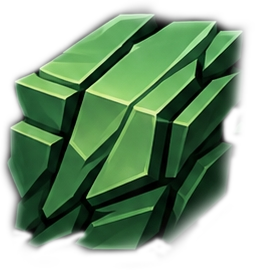
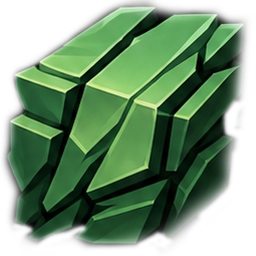
新增卡牌：猛蚀 (Corrosive Burst)
- 稀有能力卡，3耗能
- 效果：每当你给予敌人中毒，使其受到18点伤害（升级后23点）
- 使用 AfterPowerAmountChanged 钩子检测中毒施加
- 修正状态图标尺寸为256×256（结块、猛蚀）

diff --git a/Scripts/Cards/CorrosiveBurst.cs b/Scripts/Cards/CorrosiveBurst.cs
@@ -1,0 +1,55 @@
+using System.Collections.Generic;
+using System.Threading.Tasks;
+using BaseLib.Abstracts;
+using BaseLib.Utils;
+using MegaCrit.Sts2.Core.Commands;
+using MegaCrit.Sts2.Core.Entities.Cards;
+using MegaCrit.Sts2.Core.GameActions.Multiplayer;
+using MegaCrit.Sts2.Core.HoverTips;
+using MegaCrit.Sts2.Core.Localization;
+using MegaCrit.Sts2.Core.Localization.DynamicVars;
+using MegaCrit.Sts2.Core.Models.CardPools;
+using MegaCrit.Sts2.Core.Models.Powers;
+using USCE.Scripts.Powers;
+
+namespace USCE.Scripts.Cards;
+
+[Pool(typeof(SilentCardPool))]
+public class CorrosiveBurst : SilentCardModel, ILocalizationProvider
+{
+    private const int energyCost = 3;
+    private const CardType type = CardType.Power;
+    private const CardRarity rarity = CardRarity.Rare;
+    private const TargetType targetType = TargetType.Self;
+
+    protected override IEnumerable<DynamicVar> CanonicalVars =>
+    [
+        new PowerVar<CorrosiveBurstPower>(18m)
+    ];
+
+    protected override IEnumerable<IHoverTip> ExtraHoverTips =>
+    [
+        HoverTipFactory.FromPower<PoisonPower>()
+    ];
+
+    public override List<(string, string)>? Localization => LocManager.Instance.Language switch
+    {
+        "zhs" => new CardLoc("猛蚀", "每当你给予敌人[gold]中毒[/gold]，使其受到{CorrosiveBurstPower:diff()}点伤害。"),
+        _ => new CardLoc("Corrosive Burst", "Whenever you apply [gold]Poison[/gold] to an enemy, they take {CorrosiveBurstPower:diff()} damage.")
+    };
+
+    public CorrosiveBurst() : base(energyCost, type, rarity, targetType)
+    {
+    }
+
+    protected override async Task OnPlay(PlayerChoiceContext choiceContext, CardPlay cardPlay)
+    {
+        await CreatureCmd.TriggerAnim(Owner.Creature, "Cast", Owner.Character.CastAnimDelay);
+        await PowerCmd.Apply<CorrosiveBurstPower>(Owner.Creature, DynamicVars["CorrosiveBurstPower"].IntValue, Owner.Creature, this);
+    }
+
+    protected override void OnUpgrade()
+    {
+        DynamicVars["CorrosiveBurstPower"].UpgradeValueBy(5m);
+    }
+}

diff --git a/Scripts/Powers/CorrosiveBurstPower.cs b/Scripts/Powers/CorrosiveBurstPower.cs
@@ -1,0 +1,39 @@
+using System.Collections.Generic;
+using System.Threading.Tasks;
+using BaseLib.Abstracts;
+using MegaCrit.Sts2.Core.Commands;
+using MegaCrit.Sts2.Core.Entities.Cards;
+using MegaCrit.Sts2.Core.Entities.Creatures;
+using MegaCrit.Sts2.Core.Entities.Powers;
+using MegaCrit.Sts2.Core.GameActions.Multiplayer;
+using MegaCrit.Sts2.Core.Localization;
+using MegaCrit.Sts2.Core.Models;
+using MegaCrit.Sts2.Core.Models.Cards;
+using MegaCrit.Sts2.Core.Models.Powers;
+using MegaCrit.Sts2.Core.ValueProps;
+
+namespace USCE.Scripts.Powers;
+
+public class CorrosiveBurstPower : CustomPowerModel
+{
+    public override PowerType Type => PowerType.Buff;
+    public override PowerStackType StackType => PowerStackType.Counter;
+
+    public override string? CustomPackedIconPath => "res://UltimateSilentCardExpansion/images/powers/usce_corrosive_burst_power.png";
+    public override string? CustomBigIconPath => "res://UltimateSilentCardExpansion/images/powers/usce_corrosive_burst_power.png";
+
+    public override List<(string, string)>? Localization => LocManager.Instance.Language switch
+    {
+        "zhs" => new PowerLoc("猛蚀", "每当你给予敌人中毒，使其受到18点伤害。", "每当你给予敌人[gold]中毒[/gold]，使其受到[blue]{Amount}[/blue]点伤害。"),
+        _ => new PowerLoc("Corrosive Burst", "Whenever you apply Poison to an enemy, they take 18 damage.", "Whenever you apply [gold]Poison[/gold] to an enemy, they take [blue]{Amount}[/blue] damage.")
+    };
+
+    public override async Task AfterPowerAmountChanged(PowerModel power, decimal amount, Creature? applier, CardModel? cardSource)
+    {
+        if (applier == Owner && amount > 0m && power is PoisonPower && power.Owner.Side != Owner.Side)
+        {
+            Flash();
+            await CreatureCmd.Damage(new ThrowingPlayerChoiceContext(), power.Owner, Amount, ValueProp.Unpowered, Owner, null);
+        }
+    }
+}

diff --git a/CARDS.md b/CARDS.md
@@ -1,6 +1,6 @@
 # 卡牌列表
 
-本MOD共添加 **15张** 卡牌（罕见7张，稀有7张，衍生1张）。
+本MOD共添加 **16张** 卡牌（罕见7张，稀有8张，衍生1张）。
 
 ## 罕见卡牌（7张）
 
@@ -46,7 +46,13 @@
 - **描述**: 获得1点能量。如果敌方拥有[gold]中毒[/gold]，使其失去3层[gold]中毒[/gold]，额外获得1点能量。
 - **升级**: 耗能降为0。
 
-## 稀有卡牌（7张）
+## 稀有卡牌（8张）
+
+### 猛蚀 (Corrosive Burst)
+- **类型**: 能力
+- **耗能**: 3
+- **描述**: 每当你给予敌人[gold]中毒[/gold]，使其受到18点伤害。
+- **升级**: 伤害提升至23点。
 
 ### 炼金术 (Alchemy)
 - **类型**: 技能

diff --git a/CHANGELOG.md b/CHANGELOG.md
@@ -2,6 +2,14 @@
 
 ## [Unreleased]
 
+## [0.4.0] - 2026-05-01
+
+### 新增
+- **猛蚀 (Corrosive Burst)**: 稀有能力卡，3耗能。每当你给予敌人中毒，使其受到18点伤害。
+
+### 修复
+- 修正状态图标尺寸为256×256（结块、猛蚀）
+
 ## [0.3.0] - 2026-05-01
 
 ### 新增
